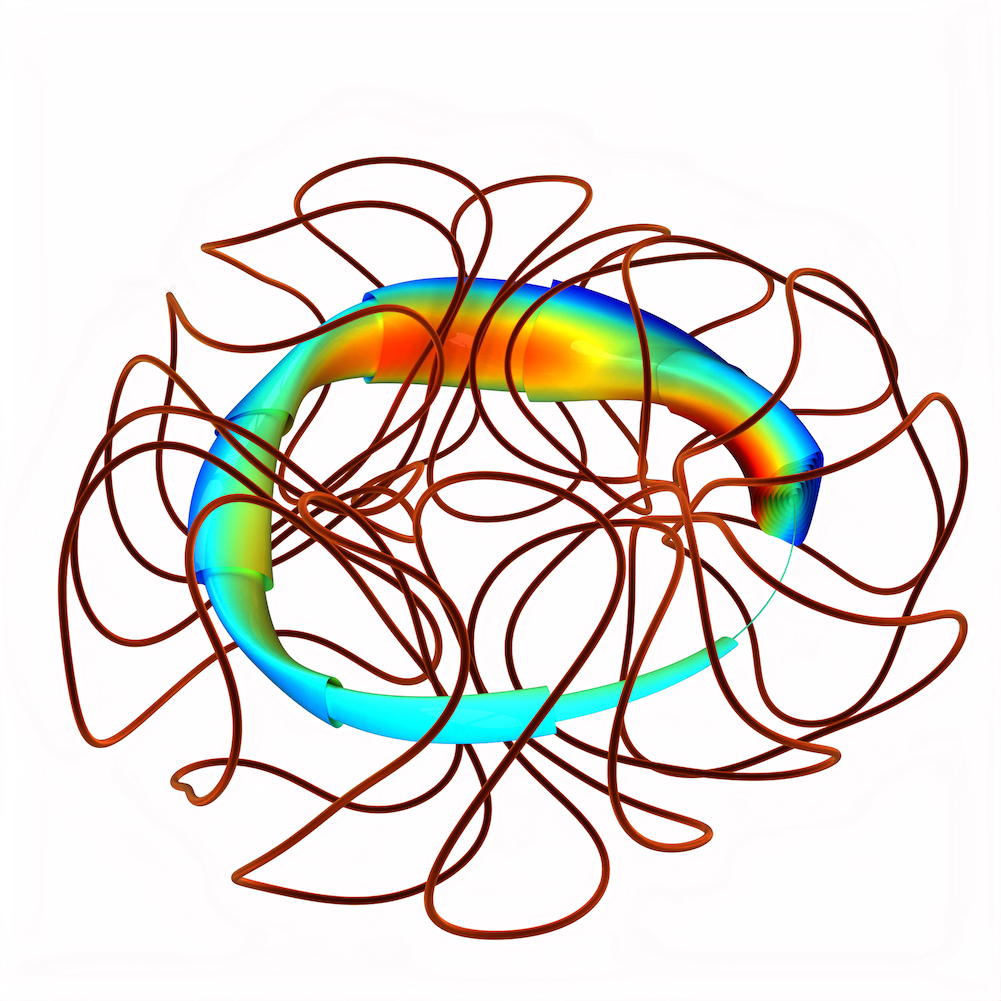
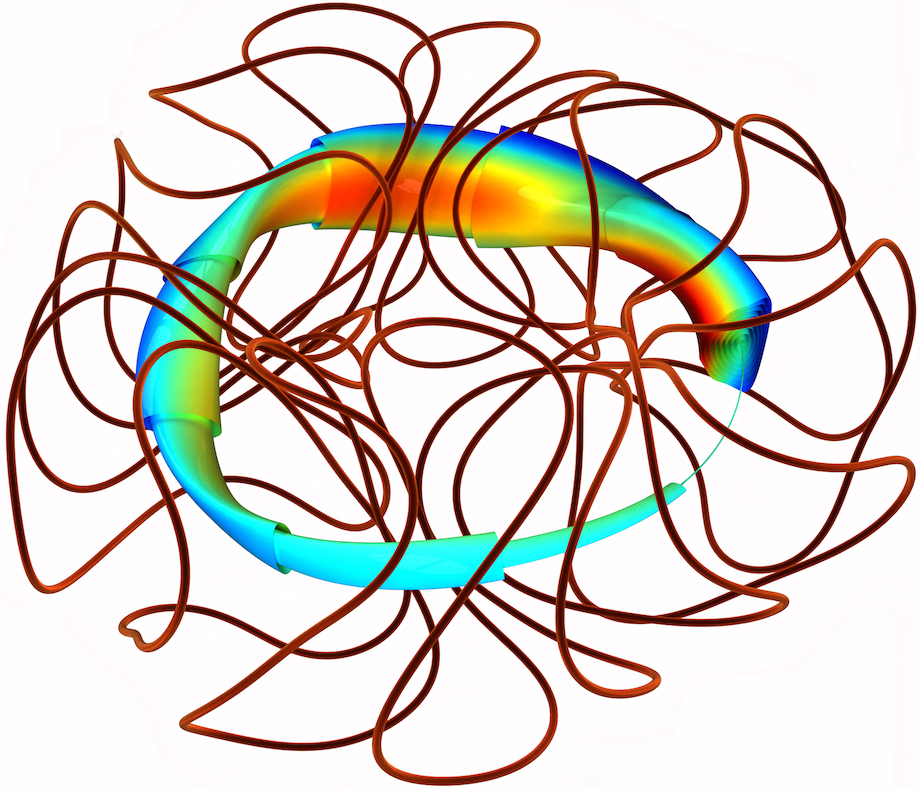
Worked on paper

diff --git a/paper.md b/paper.md
@@ -1,5 +1,5 @@
 ---
-title: 'Simsopt: A flexible framework for stellarator optimization'
+title: 'SIMSOPT: A flexible framework for stellarator optimization'
 tags:
   - Python
   - plasma
@@ -9,9 +9,9 @@ tags:
   - stellarator
   - fusion energy
 authors:
-  - name: Matt Landremann^[Custom footnotes for e.g. denoting who the corresponding author is can be included like this.]
+  - name: Matt Landreman^[mattland@umd.edu]
     orcid: 0000-0003-0872-7098
-    affiliation: "1, 2" # (Multiple affiliations must be quoted)
+    affiliation: 1
   - name: Florian Wechshung
     affiliation: 2
   - name: Bharat Medasani
@@ -28,7 +28,7 @@ affiliations:
    index: 1
  - name: New York University
    index: 2
- - name: Princeton Plasma Physics Lab
+ - name: Princeton Plasma Physics Laboratory
    index: 3
 date: 1 June 2021
 bibliography: paper.bib
@@ -44,7 +44,7 @@ plasma, and it is a candidate configuration for fusion energy, as well
 as a general charged particle trap.  A stellarator's magnetic field is
 typically produced using electromagnetic coils, and the shaping of the
 field and coils must be optimized to achieve good confinement.
-SIMSOPT is a collection of software components for carrying out these
+`SIMSOPT` is a collection of software components for carrying out these
 optimizations.  These components include
 
 - Interfaces to physics codes, e.g. for magnetohydrodynamic (MHD) equilibrium.
@@ -64,49 +64,131 @@ optimizations.  These components include
 
 # Structure
 
-Some of the physics modules with compiled code reside in separate
-repositories. Two such modules are VMEC [@VMEC1983] and
-SPEC [@SPEC], for MHD equilibrium.  Another module in a separate
-repository is booz_xform, for calculation of Boozer coordinates.  This
-latter repository is a new C++ re-implementation of an algorithm in an
-older fortran 77 code of the same name.
+The components of `SIMSOPT` that are not performance bottlenecks are
+written in python, for flexibility and ease of use and development.
+In components where performance is critical, compiled C++ code is
+interfaced to python using the `pybind11` package [@pybind].  As
+examples, the infrastructure for defining objective functions and
+optimization problems is written in python, whereas the Biot-Savart
+law is implemented in C++.
 
-Simsopt does not presently use input data files to define optimization
-problems, in contrast to STELLOPT. Rather, problems are specified
+Some of the physics modules with compiled code reside in separate
+repositories. Two such modules are the VMEC [@VMEC1983] and SPEC
+[@SPEC] codes, for MHD equilibrium. These Fortran codes are interfaced
+using the `f90wrap` package [@f90wrap], so data can be passed directly
+in memory to and from python.  This is particularly useful for passing
+MPI communicators for parallelized evaluation of finite-difference
+gradients.  Another module in a separate repository is booz_xform, for
+calculation of Boozer coordinates.  This latter repository is a new
+C++ re-implementation of an algorithm in an older fortran 77 code of
+the same name.
+
+A variety of geometric objects and magnetic field types are included
+in `SIMSOPT`.  Several discretizations of curves and toroidal surfaces
+are included, since curves are important both in the context of
+electromagnetic coils and the magnetic axis, and flux surfaces are a
+key concept for stellarators. One magnetic field type represents the
+Biot-Savart law, defined by a set of curves and the electric current
+they carry. Other available magnetic field types include Dommaschk
+potentials and the analytic formula for the field of a circular coil,
+and magnetic field instances can be scaled and summed. All the
+geometric and magnetic field classes provide one or two derivatives,
+either provided by explicit formulae, or by automatic differentiation
+with the `jax` package [@jax].  Caching is available to avoid repeated
+calculations.
+
+
+Presently, MPI and OpenMP parallelism are used in different code
+components.  The parallelized finite-difference gradient capability
+uses MPI, to support use of multiple compute nodes, and to support
+concurrent calculations with physics codes like VMEC and SPEC that
+employ MPI. Biot-Savart calculations are presently parallelized using
+OpenMP for simplicity.
+
+`SIMSOPT` does not presently use input data files to define optimization
+problems, in contrast to `STELLOPT`. Rather, problems are specified
 using a python driver script, in which objects are defined and
 configured. However, objects related to specific physics codes may use
 their own input files. In particular, a `Vmec` object can be
 initialized using a standard VMEC `input.*` input file, and a `Spec`
 object can be initialized using a standard SPEC `*.sp` input file.
 
-- C++/Python combination
-- Fortran/Python combination
-- Parallelism using MPI and OpenMP
 
 # Capabilities
 
-![A stellarator with magnetic surfaces](rt_angle.png)
+Presently, `SIMSOPT` provides tools for each of the two optimization
+stages used for the design of stellarators such as W7-X and HSX.  In
+the first stage, the boundary of a toroidal magnetic surface is varied
+to optimize the physics properties inside it.  In the second stage,
+coil shapes are optimized to approximately produce the boundary
+magnetic surface that resulted from the first stage.
 
+For the first stage, MHD equilibria or vacuum fields can be
+represented using the VMEC or SPEC code, or both at the same time.
+VMEC, which makes the assumption that good nested magnetic surfaces
+exist, is extremely robust and many other physics codes are able to
+postprocess its output.  SPEC can provide added value because of its
+ability to represent magnetic islands, which are undesirable since a
+large temperature gradient cannot be supported across them.  Islands
+can be eliminated using `SIMSOPT` by minimizing the magnitude of the
+residues [@Greene], similar to the method in [@Hanson].  An example of
+stage-1 optimization including both VMEC and SPEC simultaneously is
+shown in \autoref{fig:xsections}-\autoref{fig:poincare}. Here, the
+shape is optimized to both eliminate an internal island chain, as
+computed from SPEC, and to achieve quasisymmetry, as computed from
+VMEC and booz_xform. This example will be described in more detail in
+a separate publication.
 
-Two general sentences on stage 1 and stage 2 optimisation, include picture of a stellarator
-
-- Optimising surfaces for physics quantities, mention rotational transform, quasi symmetry, greens residue. mention connected libraries (vmec, spec, ...)
-- Optimising coils for physics quantities
-- Visualisation of coils, surfaces
-- Computation of poincare plots, particle tracing
-
-
-![Initial and optimized stellarator shapes\label{fig:xsections}](20210530-01-014-combinedVmecSpecOpt_xsections.pdf)
+![An example of stage-1 optimization using `SIMSOPT`, in which the
+ shape of a toroidal boundary is optimized to eliminate magnetic
+ islands and improve
+ quasisymmetry.\label{fig:xsections}](20210530-01-014-combinedVmecSpecOpt_xsections.pdf)
 
 ![VMEC flux surfaces (black lines) and Poincare plot computed from the
  SPEC solution (colored points) for the initial and optimized
- configurations\label{fig:poincare}](20210530-01-014-combinedVmecSpecOpt_poincare.png)
+ configurations in
+ \autoref{fig:xsections}.\label{fig:poincare}](20210530-01-014-combinedVmecSpecOpt_poincare.png)
+
+The curve and magnetic field classes in `SIMSOPT` can then be used for
+the second optimization stage, in which coil shapes are designed.
+Varying the shapes of the coils, derivative-based optimization can be
+used to minimize the normal component of the magnetic field on the
+target surface, similar to the FOCUS code [@focus].
+
+One can also use `SIMSOPT` for other optimization problems that differ
+from the above two-stage approach.  For instance, `SIMSOPT` is
+presently being used for a single-stage derivative-based method in
+which coil shapes are varied to optimize directly for quasisymmetry
+near the magnetic axis [@Giuliani]. \autoref{fig:coils} shows an
+example in which stochastic optimization is applied to find a
+configuration in which the quasisymmetry is relatively insensitive to
+errors in the coil shapes.  This example will be described in more
+detail in a separate publication.
+
+
+![A stellarator obtained using stochasic optimization with `Curve` and
+ `BiotSavart` classes from `SIMSOPT`, with magnetic surfaces computed
+ using `Surface` classes.\label{fig:coils}](rt_angle.png){width=65%}
+
+
 
 
 
 # Acknowledgements
 
-This work was supported by a grant from the Simons Foundation (560651, ML).
-?? PPPL grant number??
+We gratefully acknowledge discussions and assistance from
+Aaron Bader,
+Antoine Baillod,
+David Bindel,
+Benjamin Faber,
+Stuart Hudson,
+Thomas Kruger,
+Jonathan Schilling,
+and
+Zhisong Qu.
+This work was supported by a grant from the Simons Foundation (560651,
+ML).  BM and CZ are supported by the U.S. Department of Energy under
+Contract No. DE-AC02-09CH11466 through the Princeton Plasma Physics
+Laboratory.
 
 # References
